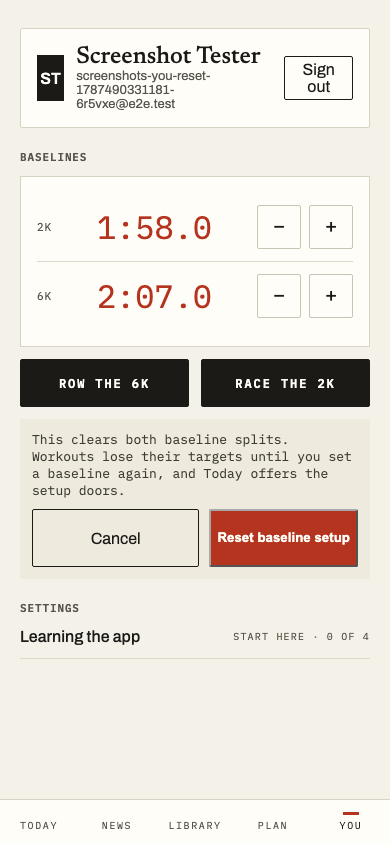
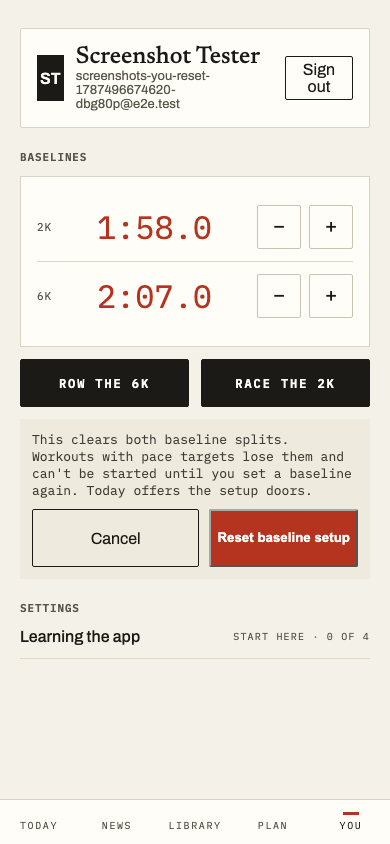
Phase BL PR C — PM final gate conditions: status header, article truth, confirm capability
C3: ROADMAP Phase BL's Status header now opens COMPLETE pending release
(v0.19.0), names all four delivered slate items (A #164, B #165, C
#172), and drops the dissolved conditionals — the A+B stop-point (the
table met its criteria) and the PR-C-waits-on-LL's-spec precondition
(verified satisfied: LL's spec merged 2026-08-22, PR C opened after).

C4: the baselines article's closing paragraph stops instructing 'enter
your average split under You' — it now says the app OFFERS the measured
split post-save (accept sets it) with the You editor kept as the
hand-typed path; pinned by test, 506 words, minutes unchanged at 3.

C5: the Reset confirm copy gains the capability clause — 'Workouts with
pace targets lose them and can't be started until you set a baseline
again.' — pinned word-exact; you-reset-armed re-captured and read
(real 1:58.0/2:07.0 pair above the new copy). e2e pins were prefix
regexes and did not change, so no e2e rerun was owed.

Claude-Session: https://claude.ai/code/session_01Tug53SpxQ4PVXkTVHM8bZL

diff --git a/app/src/news/content/bodies.test.tsx b/app/src/news/content/bodies.test.tsx
@@ -58,6 +58,25 @@ describe("article body components", () => {
   // ui-notes round, item 3: the two-baselines paragraph gains one sentence
   // pointing at the derivation offer (item 2) — word-exact per the brief,
   // James reviews the diff.
+  // PM final gate C4 (Phase BL PR C): the closing paragraph used to
+  // instruct "enter your average split under You" — the pre-BL manual
+  // chore. It now describes the post-save OFFER doing the writing, with
+  // the You editor kept as the hand-typed path.
+  it("BaselinesBody's closing paragraph says the app OFFERS the measured split post-save, and keeps the You editor as the hand-typed path (C4)", () => {
+    render(<BaselinesBody />);
+    expect(
+      screen.getByText(
+        /the app offers\s+your measured average split as the baseline: accept it and it's set/,
+      ),
+    ).toBeInTheDocument();
+    expect(
+      screen.getByText(/whenever you'd rather type a\s+number in by hand/),
+    ).toBeInTheDocument();
+    expect(
+      screen.queryByText(/enter your average split\s+under You/),
+    ).not.toBeInTheDocument();
+  });
+
   it("BaselinesBody's two-baselines paragraph names the derivation offer (ui-notes round, item 3)", () => {
     render(<BaselinesBody />);
     expect(

diff --git a/app/src/you/ResetBaselineSetup.test.tsx b/app/src/you/ResetBaselineSetup.test.tsx
@@ -28,9 +28,14 @@ describe("ResetBaselineSetup", () => {
       screen.getByRole("button", { name: "Reset baseline setup" }),
     );
 
-    // The confirm block says plainly what it does (destructive copy rule).
+    // The confirm block says plainly what it does (destructive copy rule)
+    // AND what the rower loses the ability to DO (PM final gate C5: the
+    // capability clause — split-target workouts can't be started until a
+    // baseline is set again).
     expect(
-      screen.getByText(/This clears both baseline splits/),
+      screen.getByText(
+        /This clears both baseline splits\. Workouts with pace targets lose\s+them and can't be started until you set a baseline again\. Today\s+offers the setup doors\./,
+      ),
     ).toBeInTheDocument();
     expect(screen.getByRole("button", { name: "Cancel" })).toBeInTheDocument();
     expect(fetchSpy).not.toHaveBeenCalled();

diff --git a/app/src/news/content/bodies/baselines.tsx b/app/src/news/content/bodies/baselines.tsx
@@ -57,9 +57,11 @@ export function BaselinesBody() {
 
       <p>
         Don't overthink the first one. An honest, unheroic 6k this week beats a
-        perfect one someday. When you've rowed it, enter your average split
-        under You, and every workout in the library starts speaking in your
-        numbers. Re-test whenever workouts have felt noticeably easier or harder
+        perfect one someday. When you finish and save a test, the app offers
+        your measured average split as the baseline: accept it and it's set, and
+        every workout in the library starts speaking in your numbers. The editor
+        on the You tab is still there whenever you'd rather type a number in by
+        hand. Re-test whenever workouts have felt noticeably easier or harder
         than their forecasts for a couple of weeks.
       </p>
     </>

diff --git a/app/src/news/content/articles.tsx b/app/src/news/content/articles.tsx
@@ -39,7 +39,10 @@ import { NotationBody } from "./bodies/notation";
 // (2026-08-23): your-first-row rewritten for the three doors (the single
 // "row 6k and it sets your baseline" story was a shipped lie — nothing
 // wrote a baseline until PR B's post-save offer) — recounted at 288
-// words, ceil(288/180)=2, minutes unchanged.
+// words, ceil(288/180)=2, minutes unchanged. Same day, PM gate C4:
+// baselines' closing paragraph now describes the post-save OFFER doing
+// the writing (the "enter it under You" chore is gone) — recounted at
+// 506 words (body + aside), ceil(506/180)=3, minutes unchanged.
 export const ARTICLES: NewsArticle[] = [
   {
     slug: "workout-types",

diff --git a/app/src/you/ResetBaselineSetup.tsx b/app/src/you/ResetBaselineSetup.tsx
@@ -59,8 +59,9 @@ export default function ResetBaselineSetup({
     <div className="reset-baselines">
       <div className="baseline-confirm">
         <p className="baseline-confirm-line">
-          This clears both baseline splits. Workouts lose their targets until
-          you set a baseline again, and Today offers the setup doors.
+          This clears both baseline splits. Workouts with pace targets lose them
+          and can't be started until you set a baseline again. Today offers the
+          setup doors.
         </p>
         {error && <p className="baseline-error">{error}</p>}
         <div className="baseline-actions">

diff --git a/ROADMAP.md b/ROADMAP.md
@@ -1470,9 +1470,13 @@ and `docs/design/README.md:99-100` (the wrong `7/31/55` cadence, real indices
 
 ## Phase BL — Baselines: three doors in, one measurement out
 
-**Status:** OPEN 2026-08-22 — phase-open gates RUN same day (antagonist
-anchor at full triad weight; PM slate gate GO-WITH-CONDITIONS), spec at
-REV 2 with every finding folded
+**Status:** COMPLETE pending release (v0.19.0) — all four slate items
+delivered: **PR A #164, PR B #165, PR C #172** (opened 2026-08-23; the
+old PR-C-opens-only-once-LL's-spec-exists precondition was verified
+satisfied — LL's spec merged to main 2026-08-22, before PR C opened).
+Phase opened 2026-08-22 with same-day gates (antagonist anchor at full
+triad weight; PM slate gate GO-WITH-CONDITIONS), spec at REV 2 with
+every finding folded
 (`docs/superpowers/specs/2026-08-22-baseline-onboarding-design.md`; the
 canvas is COMMITTED at `docs/design/baseline-onboarding/`, live copy
 linked in the spec). Both gate ledger entries rode the rev-2 PR. James's
@@ -1483,10 +1487,9 @@ writes; questionnaire answers TRANSIENT, never stored; a staged-confirm
 **Reset baseline setup** on You makes the doors re-enterable (the product
 answer to the gate's unreachable-doors finding). **PR shape: A (the
 shape, alone, triad) → B (prompt + shortcut + decouple) → C (doors +
-questionnaire + table + reset), with a STOP-POINT after B** — the phase
-may close and release on A+B if the table cannot meet its bounded
-criteria. **PR C opens only once Phase LL's spec exists** (James's
-sequencing ruling with teeth — LL runs in a parallel session).
+questionnaire + table + reset).** The stop-point conditional this
+paragraph used to carry dissolved with PR C: the table met its bounded
+criteria, so the phase did not close on A+B.
 **PR A LANDED via #164** (the provenance shape: `k2Source`/`k6Source`
 pgEnum, migration 0013 regenerated after LL's 0012 merged mid-flight;
 editor writes `manual` typed / `derived` accepted-offer; untouched
@@ -1521,14 +1524,13 @@ first has real cost.
 (3) SOURCE-BESIDE-NULL — the source columns are NOT NULL with defaults
 while the numbers are nullable, so `k6Seconds: NULL, k6Source: 'manual'`
 is a real row state; every consumer keys on the NUMBER being non-null
-first. **The PR-C-waits-on-LL's-spec condition is DISCHARGED** —
-`docs/superpowers/specs/2026-08-22-link-truth-design.md` is on main.
-**Release correction: BL's tag is v0.18.0** (LL's notes PR claimed
-v0.17.0 first); PR A itself owes no note (nothing tester-visible —
-that accounting line is written here in advance per RF15). James checks all 16 table
-cells, printed in PR C's body. TRIAD: PM final-PR gates ran on A (#164)
-and B (#165, for 0014's unpredicted stored shape); C gets one too if
-the table ships.
+first. **Releases: A+B shipped as v0.18.0/v0.18.1** (the earlier
+"BL's tag is v0.17.0" claim in LL's notes PR was corrected); PR A
+itself owed no note (nothing tester-visible — that accounting line was
+written here in advance per RF15); **PR C releases as v0.19.0**. James
+checks all 16 table cells, printed in PR C's body. TRIAD: PM final-PR
+gates ran on A (#164), B (#165, for 0014's unpredicted stored shape),
+and C (#172 — PASS-WITH-CONDITIONS, conditions landed on the branch).
 
 **Goal:** a no-baseline account reaches a working app through whichever
 door suits them, and a rowed test finally gets RECORDED instead of
